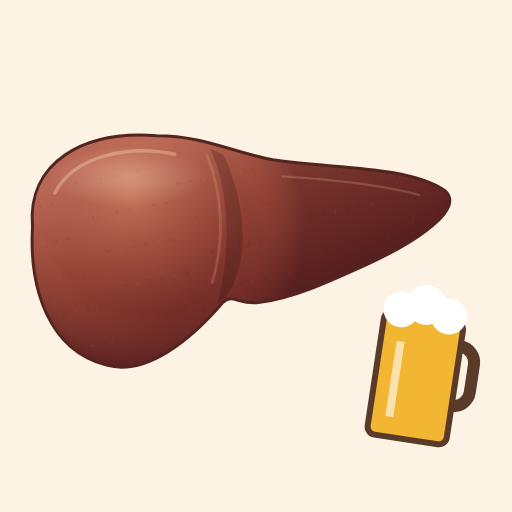
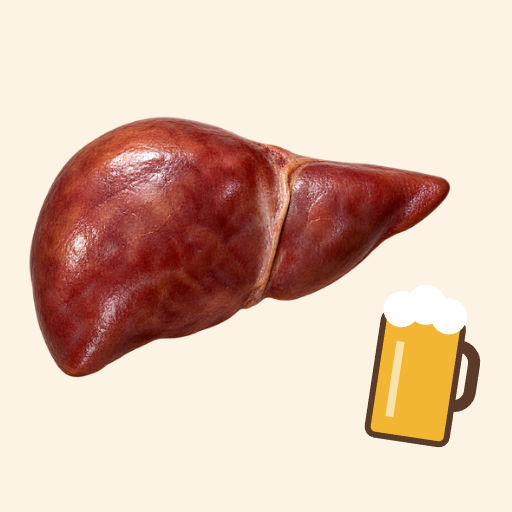
Add game: 動肝日

Changed region(s): [[0.0312, 0.2188, 0.9062, 0.75]]

diff --git a/games/doukanbi/index.html b/games/doukanbi/index.html
@@ -485,12 +485,22 @@
     }
     window.addEventListener('resize', resize);
 
+    // 512×512の透過画像。読み込み中・失敗時は下のCanvas描画を使う。
+    const liverImage = new Image();
+    liverImage.src = 'liver.png';
+
     // 肝臓くん
     function drawLiver(c, x, y, s, opt) {
       const { dead = false } = opt;
       c.save();
       c.translate(x, y);
       c.scale(s, s);
+      if (liverImage.complete && liverImage.naturalWidth > 0) {
+        if (dead) c.filter = 'grayscale(1) brightness(0.8)';
+        c.drawImage(liverImage, -120, -132, 240, 240);
+        c.restore();
+        return;
+      }
       // 正面から見た大きな右葉と、薄く先細りする左葉。
       const body = new Path2D();
       body.moveTo(-110, -16);
